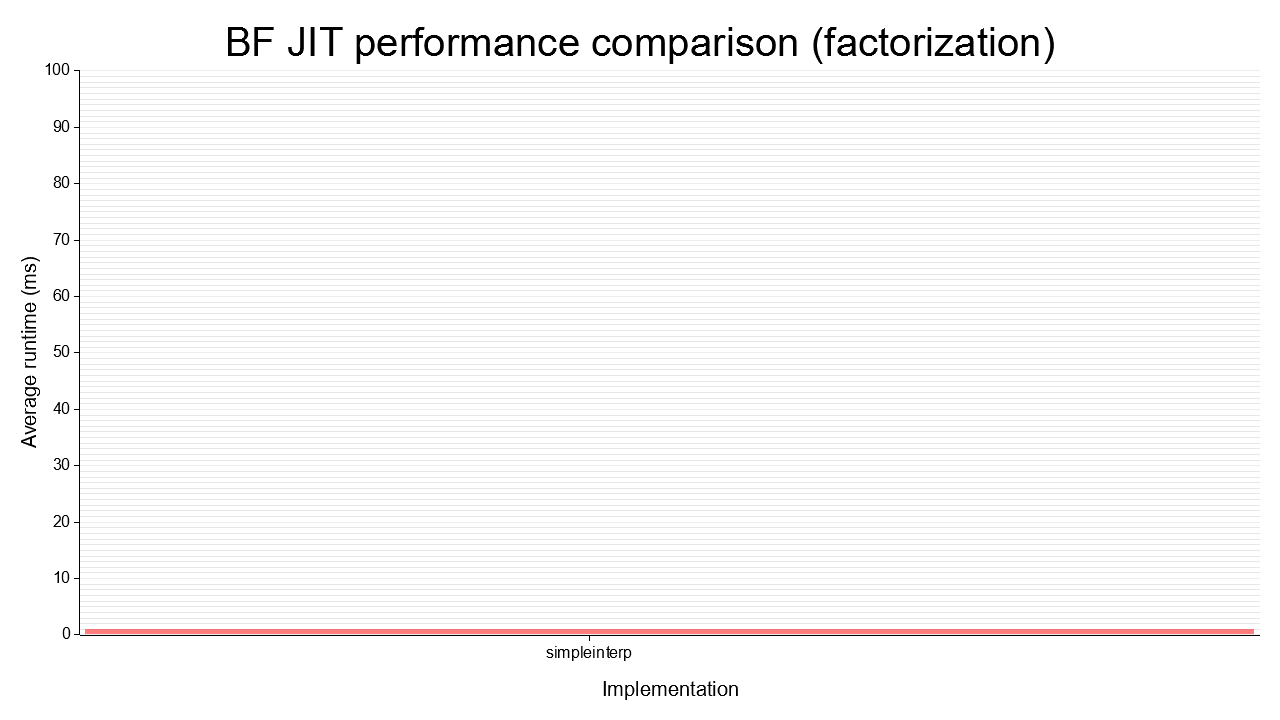
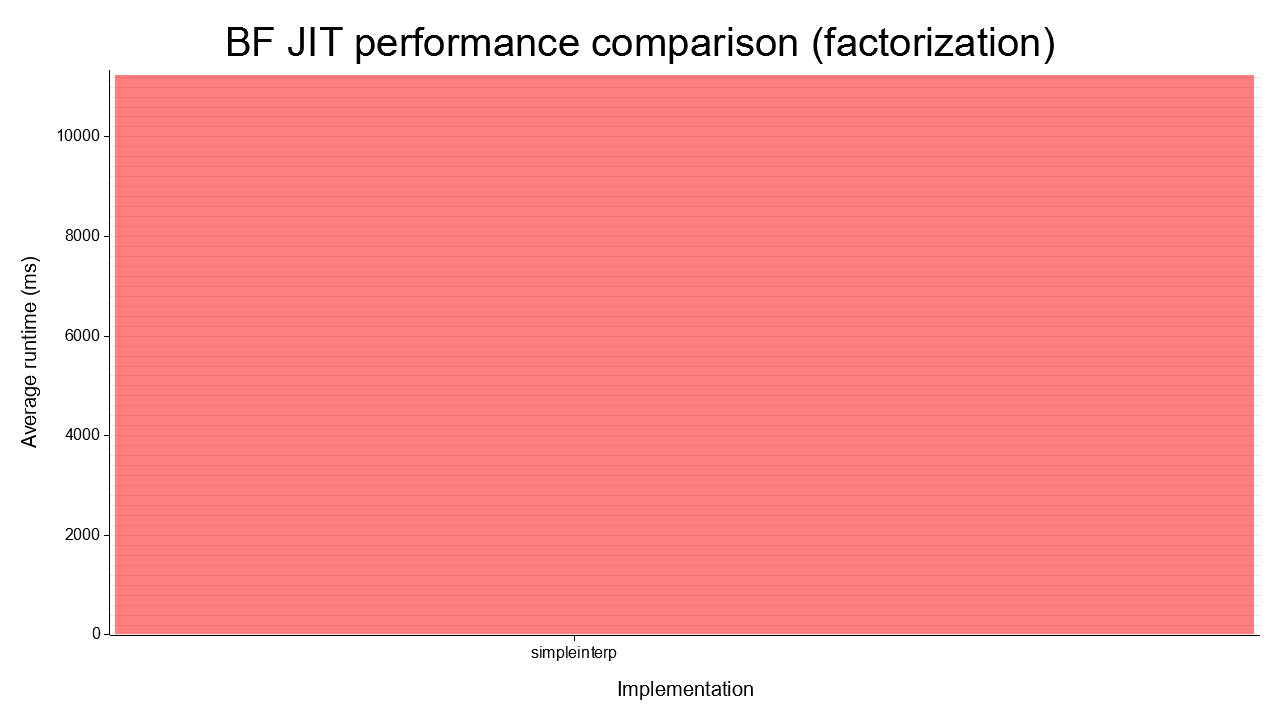
Run benchmarks on simpleinterp

diff --git a/bench/src/lib.rs b/bench/src/lib.rs
@@ -7,7 +7,7 @@ use {
         series::Histogram,
         style::{Color, RED, WHITE},
     },
-    std::{fs, time::Instant},
+    std::{fs, io::Read, time::Instant},
     util::{BfError, RunFunction},
 };
 
@@ -19,20 +19,30 @@ struct ImplInfo {
 }
 
 impl ImplInfo {
-    fn new(name: &'static str, millis: u128) -> Self {
-        Self { name, millis }
+    fn new(
+        name: &'static str,
+        run_function: &dyn RunFunction,
+        source_code: &str,
+        input: &mut dyn Read,
+    ) -> Result<Self, BfError> {
+        let millis = benchmark(name, run_function, source_code, input)?;
+        Ok(Self { name, millis })
     }
 }
 
 pub fn graph_results() -> Result<(), BfError> {
     // See https://github.com/eliben/code-for-blog/tree/master/2017/bfjit/bf-programs.
-    for (short_title, title) in [
-        ("mandelbrot", "mandelbrot generator"),
-        ("factor", "factorization"),
+    for (short_title, title, input_string) in [
+        ("mandelbrot", "mandelbrot generator", ""),
+        ("factor", "factorization", "179424691\n"),
     ] {
+        let mut input = input_string.as_bytes();
+
         let filepath = format!("corpus/{short_title}.bf");
+        println!("Measuring file {filepath}...");
         let source_code = fs::read_to_string(filepath)?;
-        graph_results_for_file(title, short_title, &source_code)?;
+
+        graph_results_for_file(title, short_title, &mut input, &source_code)?;
     }
 
     Ok(())
@@ -41,25 +51,35 @@ pub fn graph_results() -> Result<(), BfError> {
 fn graph_results_for_file(
     title: &str,
     short_title: &str,
+    input: &mut dyn Read,
     source_code: &str,
 ) -> Result<(), BfError> {
     let perf_millis = [ImplInfo::new(
         "simpleinterp",
-        benchmark(simpleinterp::run, source_code)?,
-    )];
+        &simpleinterp::run,
+        source_code,
+        input,
+    )?];
 
     create_graph(title, short_title, perf_millis)?;
 
     Ok(())
 }
 
-fn benchmark(run_function: impl RunFunction, source_code: &str) -> Result<u128, BfError> {
-    const NUM_RUNS: usize = 100;
+fn benchmark(
+    name: &str,
+    run_function: impl RunFunction,
+    source_code: &str,
+    input: &mut dyn Read,
+) -> Result<u128, BfError> {
+    println!("Benchmarking {name}...");
+
+    const NUM_RUNS: usize = 1;
     let mut times = [0; NUM_RUNS];
 
     for item in times.iter_mut() {
         let start = Instant::now();
-        run_function(source_code)?;
+        run_function(source_code, input, &mut vec![])?;
         *item = start.elapsed().as_millis();
     }
 
@@ -88,10 +108,11 @@ fn create_graph<const N: usize>(
 
     let names = perf_millis.iter().map(|x| x.name).collect::<Vec<_>>();
     let max_value = perf_millis.iter().map(|x| x.millis).max().unwrap();
+    println!("{max_value}");
 
     let mut chart = ChartBuilder::on(&root)
         .x_label_area_size(65)
-        .y_label_area_size(60)
+        .y_label_area_size(90)
         .margin(20)
         .caption(
             format!("BF JIT performance comparison ({title})"),
@@ -112,7 +133,7 @@ fn create_graph<const N: usize>(
     chart.draw_series(
         Histogram::vertical(&chart)
             .style(RED.mix(0.5).filled())
-            .data(names.iter().map(|name| (name, 1))),
+            .data(perf_millis.iter().map(|x| (&x.name, x.millis))),
     )?;
 
     root.present()?;

diff --git a/vms/simpleinterp/src/vm.rs b/vms/simpleinterp/src/vm.rs
@@ -1,12 +1,12 @@
 use {
     crate::parser::{Instruction, Program},
-    std::io::{self, Read},
+    std::io::{Read, Write},
     util::BfError,
 };
 
 const MEMORY_SIZE: usize = 30000;
 
-pub fn run(program: Program) -> Result<(), BfError> {
+pub fn run(program: Program, stdin: &mut dyn Read, stdout: &mut dyn Write) -> Result<(), BfError> {
     let mut memory: [u8; MEMORY_SIZE] = [0; MEMORY_SIZE];
     let mut pc = 0;
     let mut data_pointer = 0;
@@ -17,8 +17,8 @@ pub fn run(program: Program) -> Result<(), BfError> {
             Instruction::DecPtr => data_pointer -= 1,
             Instruction::IncData => memory[data_pointer] = memory[data_pointer].wrapping_add(1),
             Instruction::DecData => memory[data_pointer] = memory[data_pointer].wrapping_sub(1),
-            Instruction::Write => write(memory[data_pointer]),
-            Instruction::Read => memory[data_pointer] = read()?,
+            Instruction::Read => memory[data_pointer] = read(stdin)?,
+            Instruction::Write => write(stdout, memory[data_pointer])?,
             Instruction::JumpIfZero => jump(
                 true, /*eq_zero*/
                 &program,
@@ -41,18 +41,18 @@ pub fn run(program: Program) -> Result<(), BfError> {
     Ok(())
 }
 
-fn write(byte: u8) {
-    let c: char = byte.into();
-    print!("{}", c);
-}
-
-fn read() -> Result<u8, BfError> {
-    let mut stdin = io::stdin();
-
+fn read(stdin: &mut dyn Read) -> Result<u8, BfError> {
     let mut c = [0; 1];
     stdin.read_exact(&mut c)?;
 
     Ok(c[0])
+}
+
+fn write(stdout: &mut dyn Write, byte: u8) -> Result<(), BfError> {
+    stdout.write_all(&[byte])?;
+    stdout.flush()?;
+
+    Ok(())
 }
 
 fn jump(

diff --git a/vms/simpleinterp/src/parser.rs b/vms/simpleinterp/src/parser.rs
@@ -4,8 +4,8 @@ pub enum Instruction {
     DecPtr,
     IncData,
     DecData,
-    Write,
     Read,
+    Write,
     JumpIfZero,
     JumpIfNotZero,
 }
@@ -24,8 +24,8 @@ pub fn parse(source_code: &str) -> Program {
             '<' => instructions.push(Instruction::DecPtr),
             '+' => instructions.push(Instruction::IncData),
             '-' => instructions.push(Instruction::DecData),
-            '.' => instructions.push(Instruction::Write),
             ',' => instructions.push(Instruction::Read),
+            '.' => instructions.push(Instruction::Write),
             '[' => instructions.push(Instruction::JumpIfZero),
             ']' => instructions.push(Instruction::JumpIfNotZero),
             _ => (),
@@ -41,7 +41,7 @@ mod tests {
 
     #[test]
     fn parse_works() {
-        let program = parse(">a<+bcde-._,[]_1234567890か");
+        let program = parse(">a<+bcde-,_.[]_1234567890か");
         assert_eq!(
             program,
             Program {
@@ -50,8 +50,8 @@ mod tests {
                     Instruction::DecPtr,
                     Instruction::IncData,
                     Instruction::DecData,
-                    Instruction::Write,
                     Instruction::Read,
+                    Instruction::Write,
                     Instruction::JumpIfZero,
                     Instruction::JumpIfNotZero,
                 ],

diff --git a/util/src/run.rs b/util/src/run.rs
@@ -1,15 +1,18 @@
 use {
     crate::error::BfError,
-    std::{env, fs},
+    std::{
+        env, fs,
+        io::{self, Read, Write},
+    },
 };
 
-pub trait RunFunction: Fn(&str) -> Result<(), BfError> {}
-impl<T> RunFunction for T where T: Fn(&str) -> Result<(), BfError> {}
+pub trait RunFunction: Fn(&str, &mut dyn Read, &mut dyn Write) -> Result<(), BfError> {}
+impl<T> RunFunction for T where T: Fn(&str, &mut dyn Read, &mut dyn Write) -> Result<(), BfError> {}
 
 pub fn run_main(run_function: impl RunFunction) -> Result<(), BfError> {
     let args = env::args().collect::<Vec<String>>();
     let filepath = &args[1];
     let source_code = fs::read_to_string(filepath)?;
 
-    run_function(&source_code)
+    run_function(&source_code, &mut io::stdin(), &mut io::stdout())
 }

diff --git a/vms/simpleinterp/src/lib.rs b/vms/simpleinterp/src/lib.rs
@@ -1,9 +1,12 @@
-use util::BfError;
+use {
+    std::io::{Read, Write},
+    util::BfError,
+};
 
 mod parser;
 mod vm;
 
-pub fn run(source_code: &str) -> Result<(), BfError> {
+pub fn run(source_code: &str, stdin: &mut dyn Read, stdout: &mut dyn Write) -> Result<(), BfError> {
     let program = parser::parse(source_code);
-    vm::run(program)
+    vm::run(program, stdin, stdout)
 }
